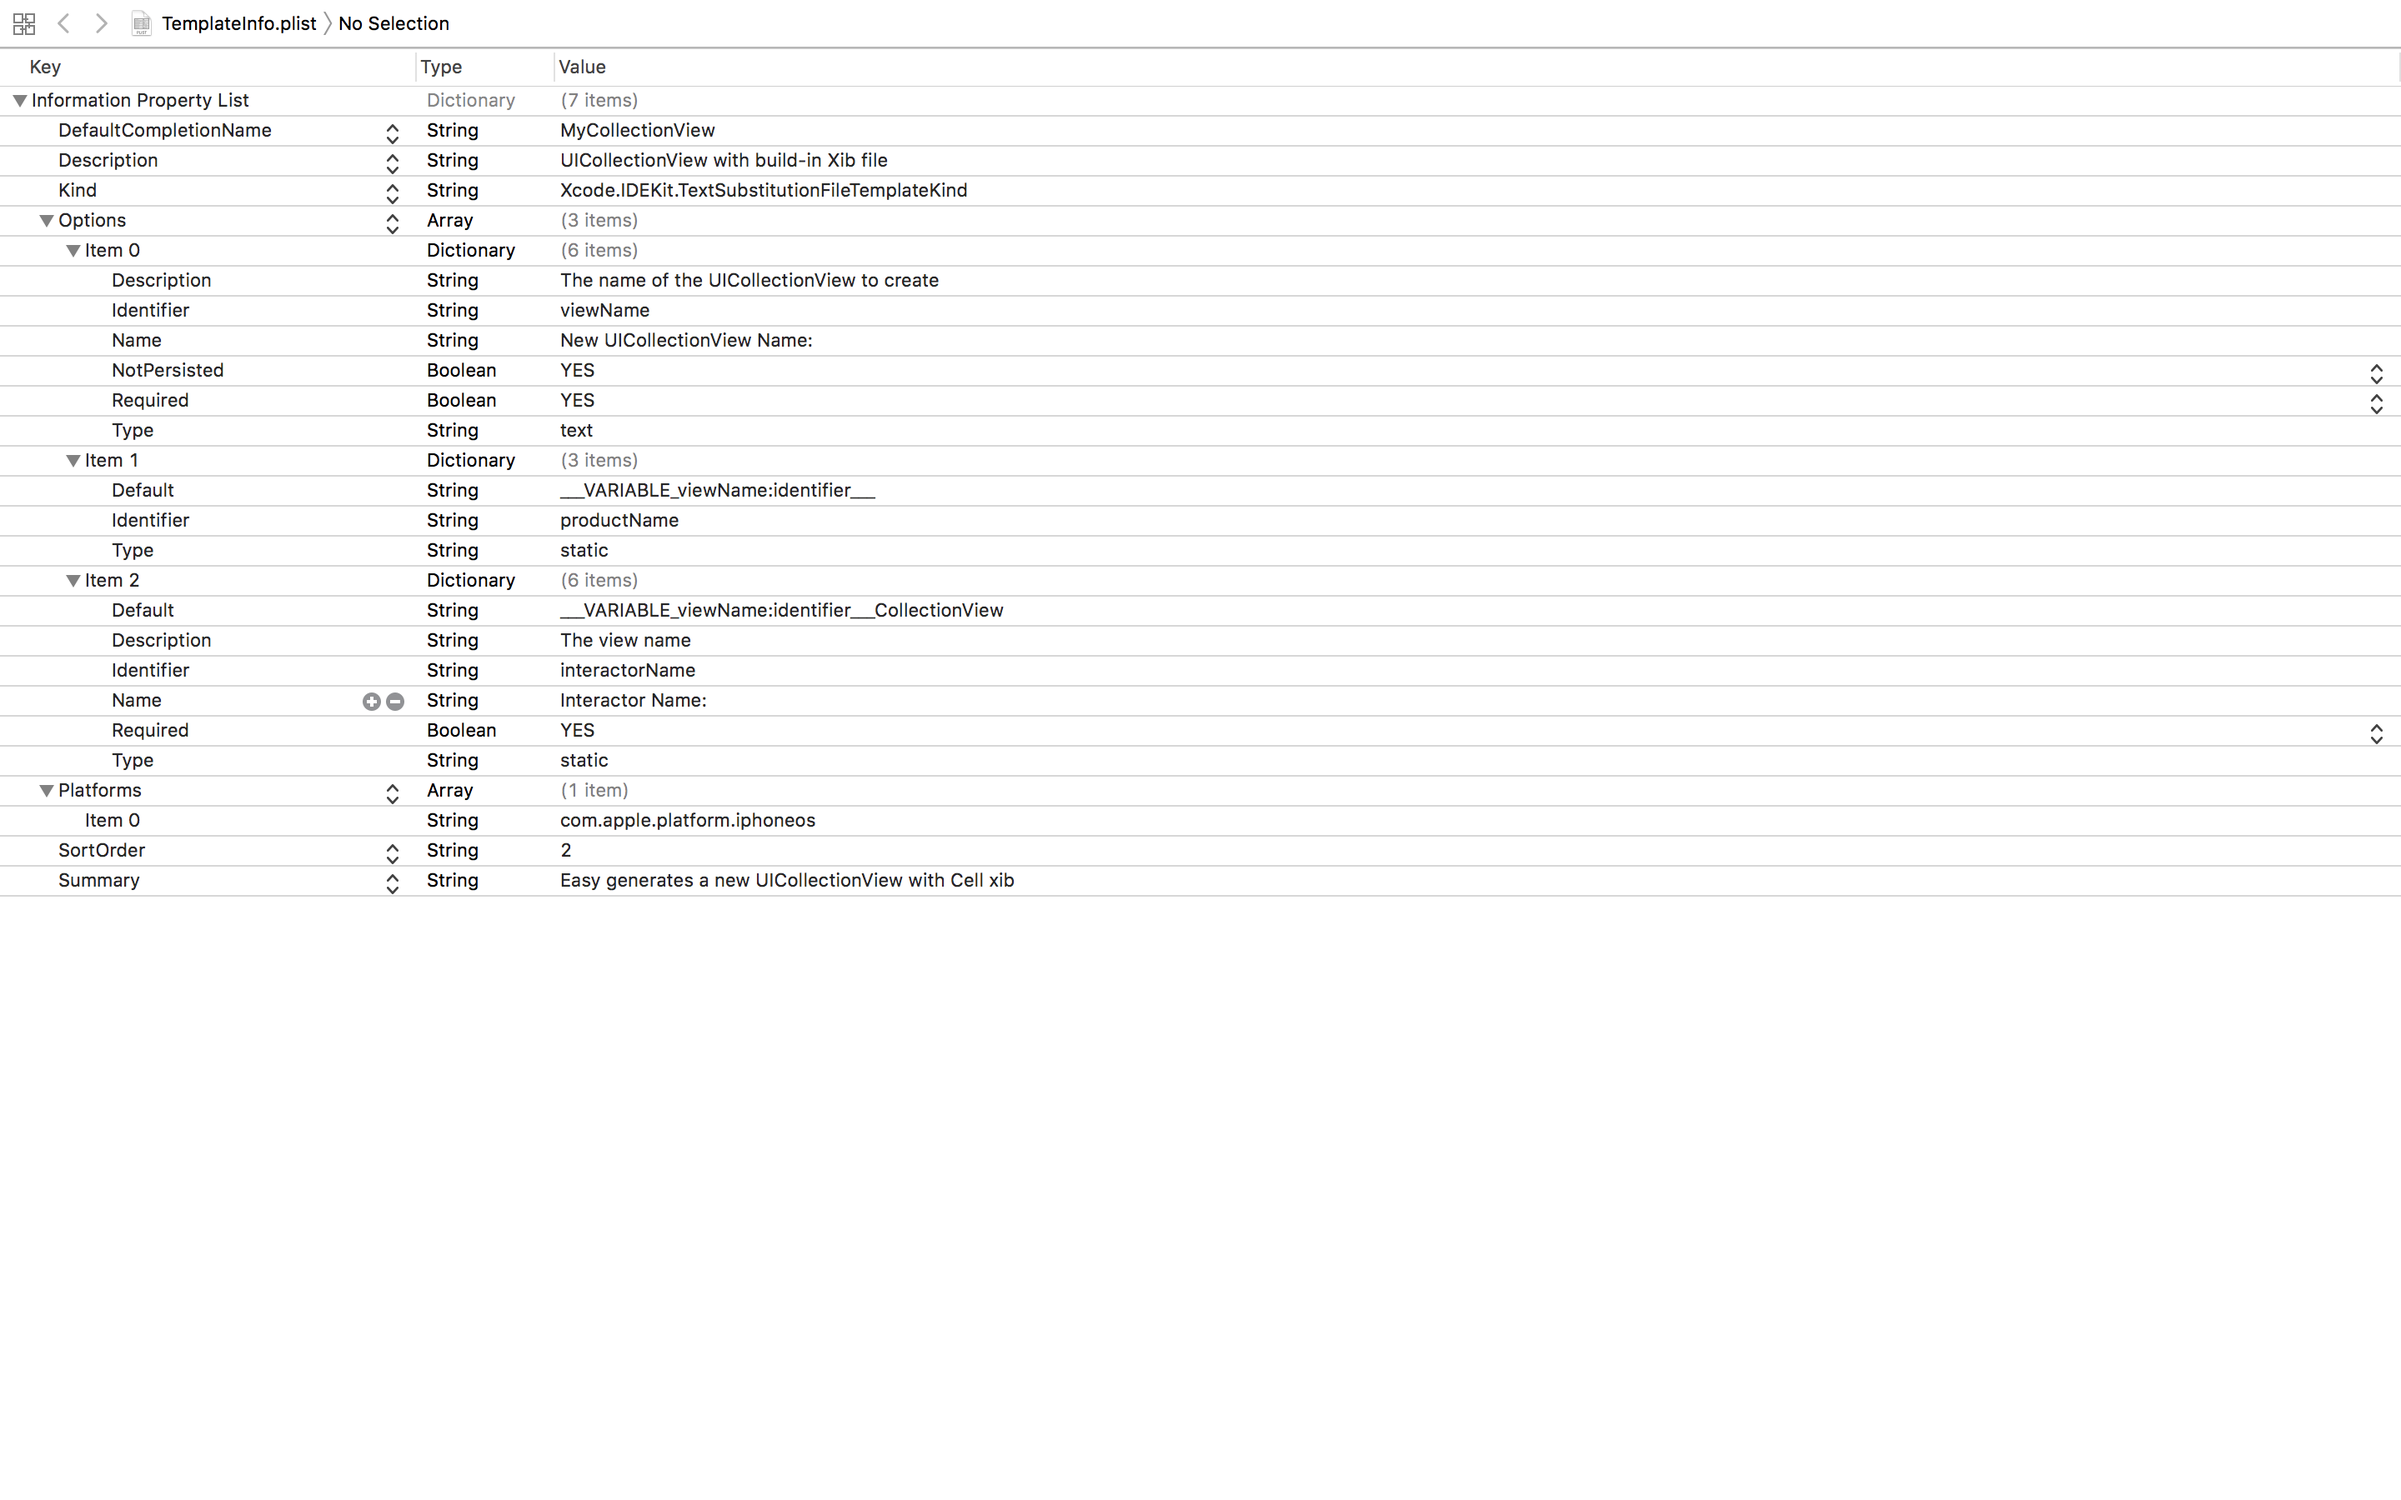
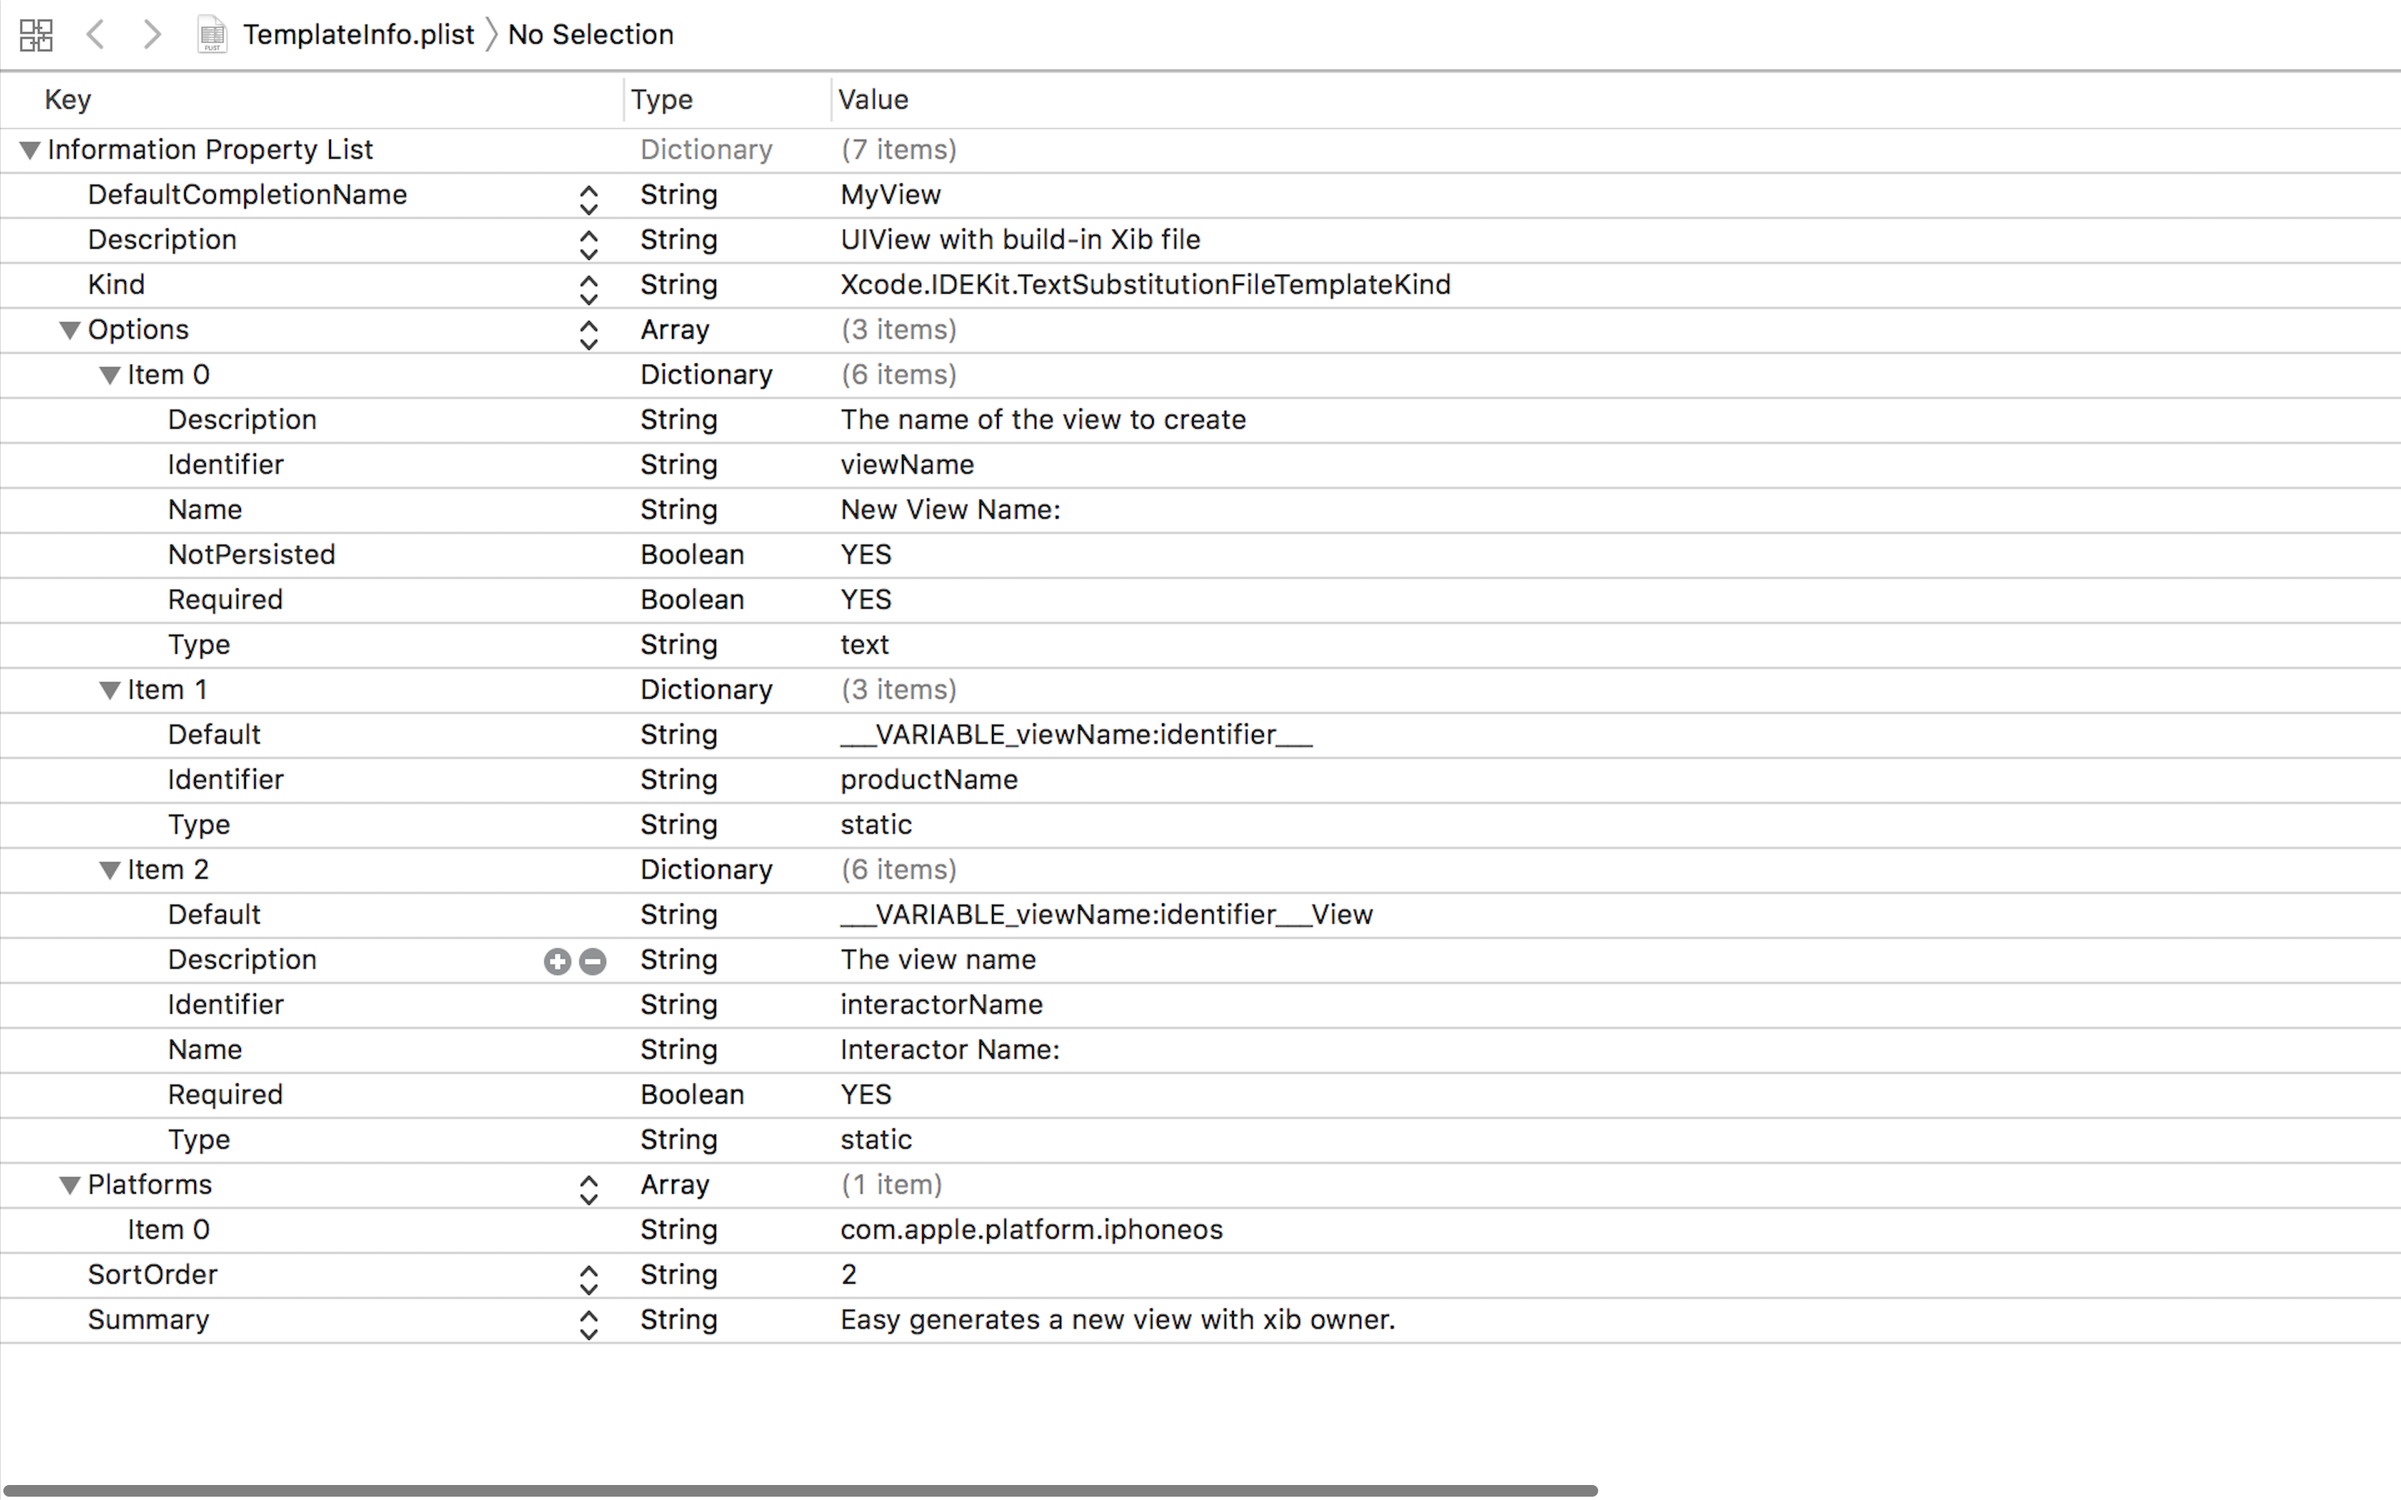
[ Add ]：new images

Changed region(s): [[0.0, 0.0, 1.0, 0.9022], [0.0, 0.9644, 0.6875, 1.0]]

diff --git a/Tutorials/README_T_CN.md b/Tutorials/README_T_CN.md
@@ -45,8 +45,7 @@
 
 ### Plist 參數介紹
 
-
-
+![.](https://github.com/5SMNOONMS5/XcodeSyncTools/blob/master/Imgs/tu_t7.png)
 
 ## VI - 源碼變數 ~~> 產生後的檔案
 
